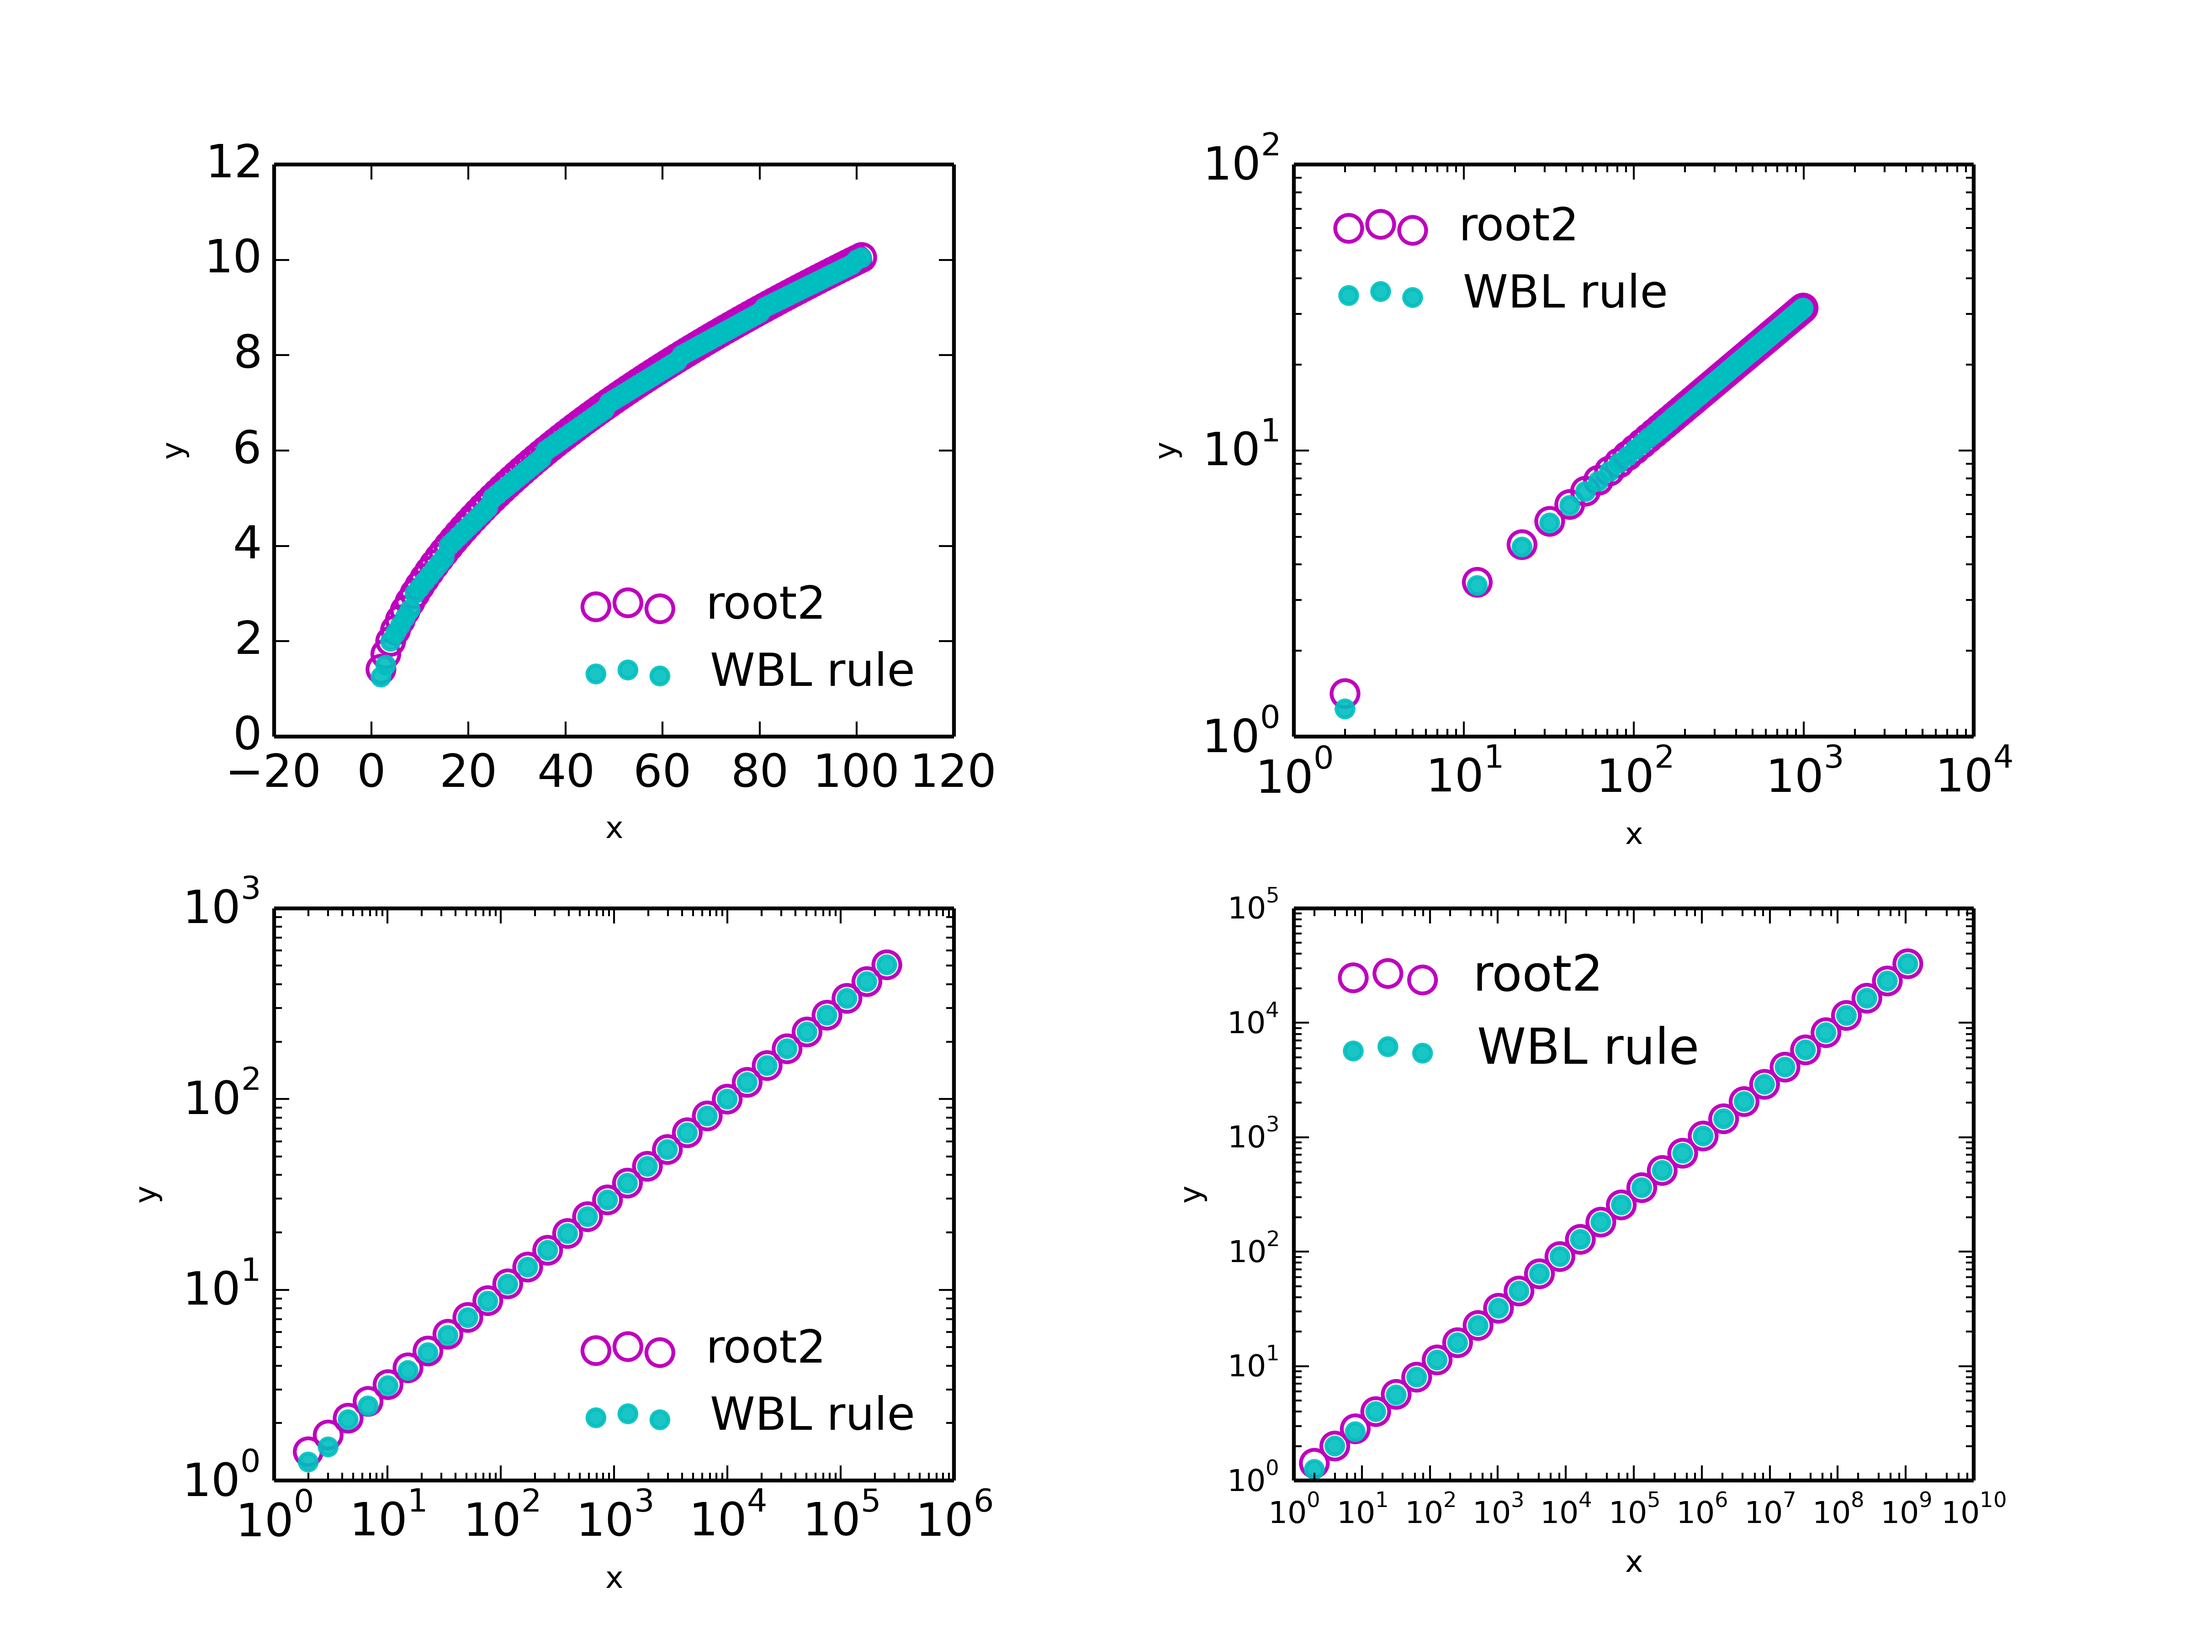
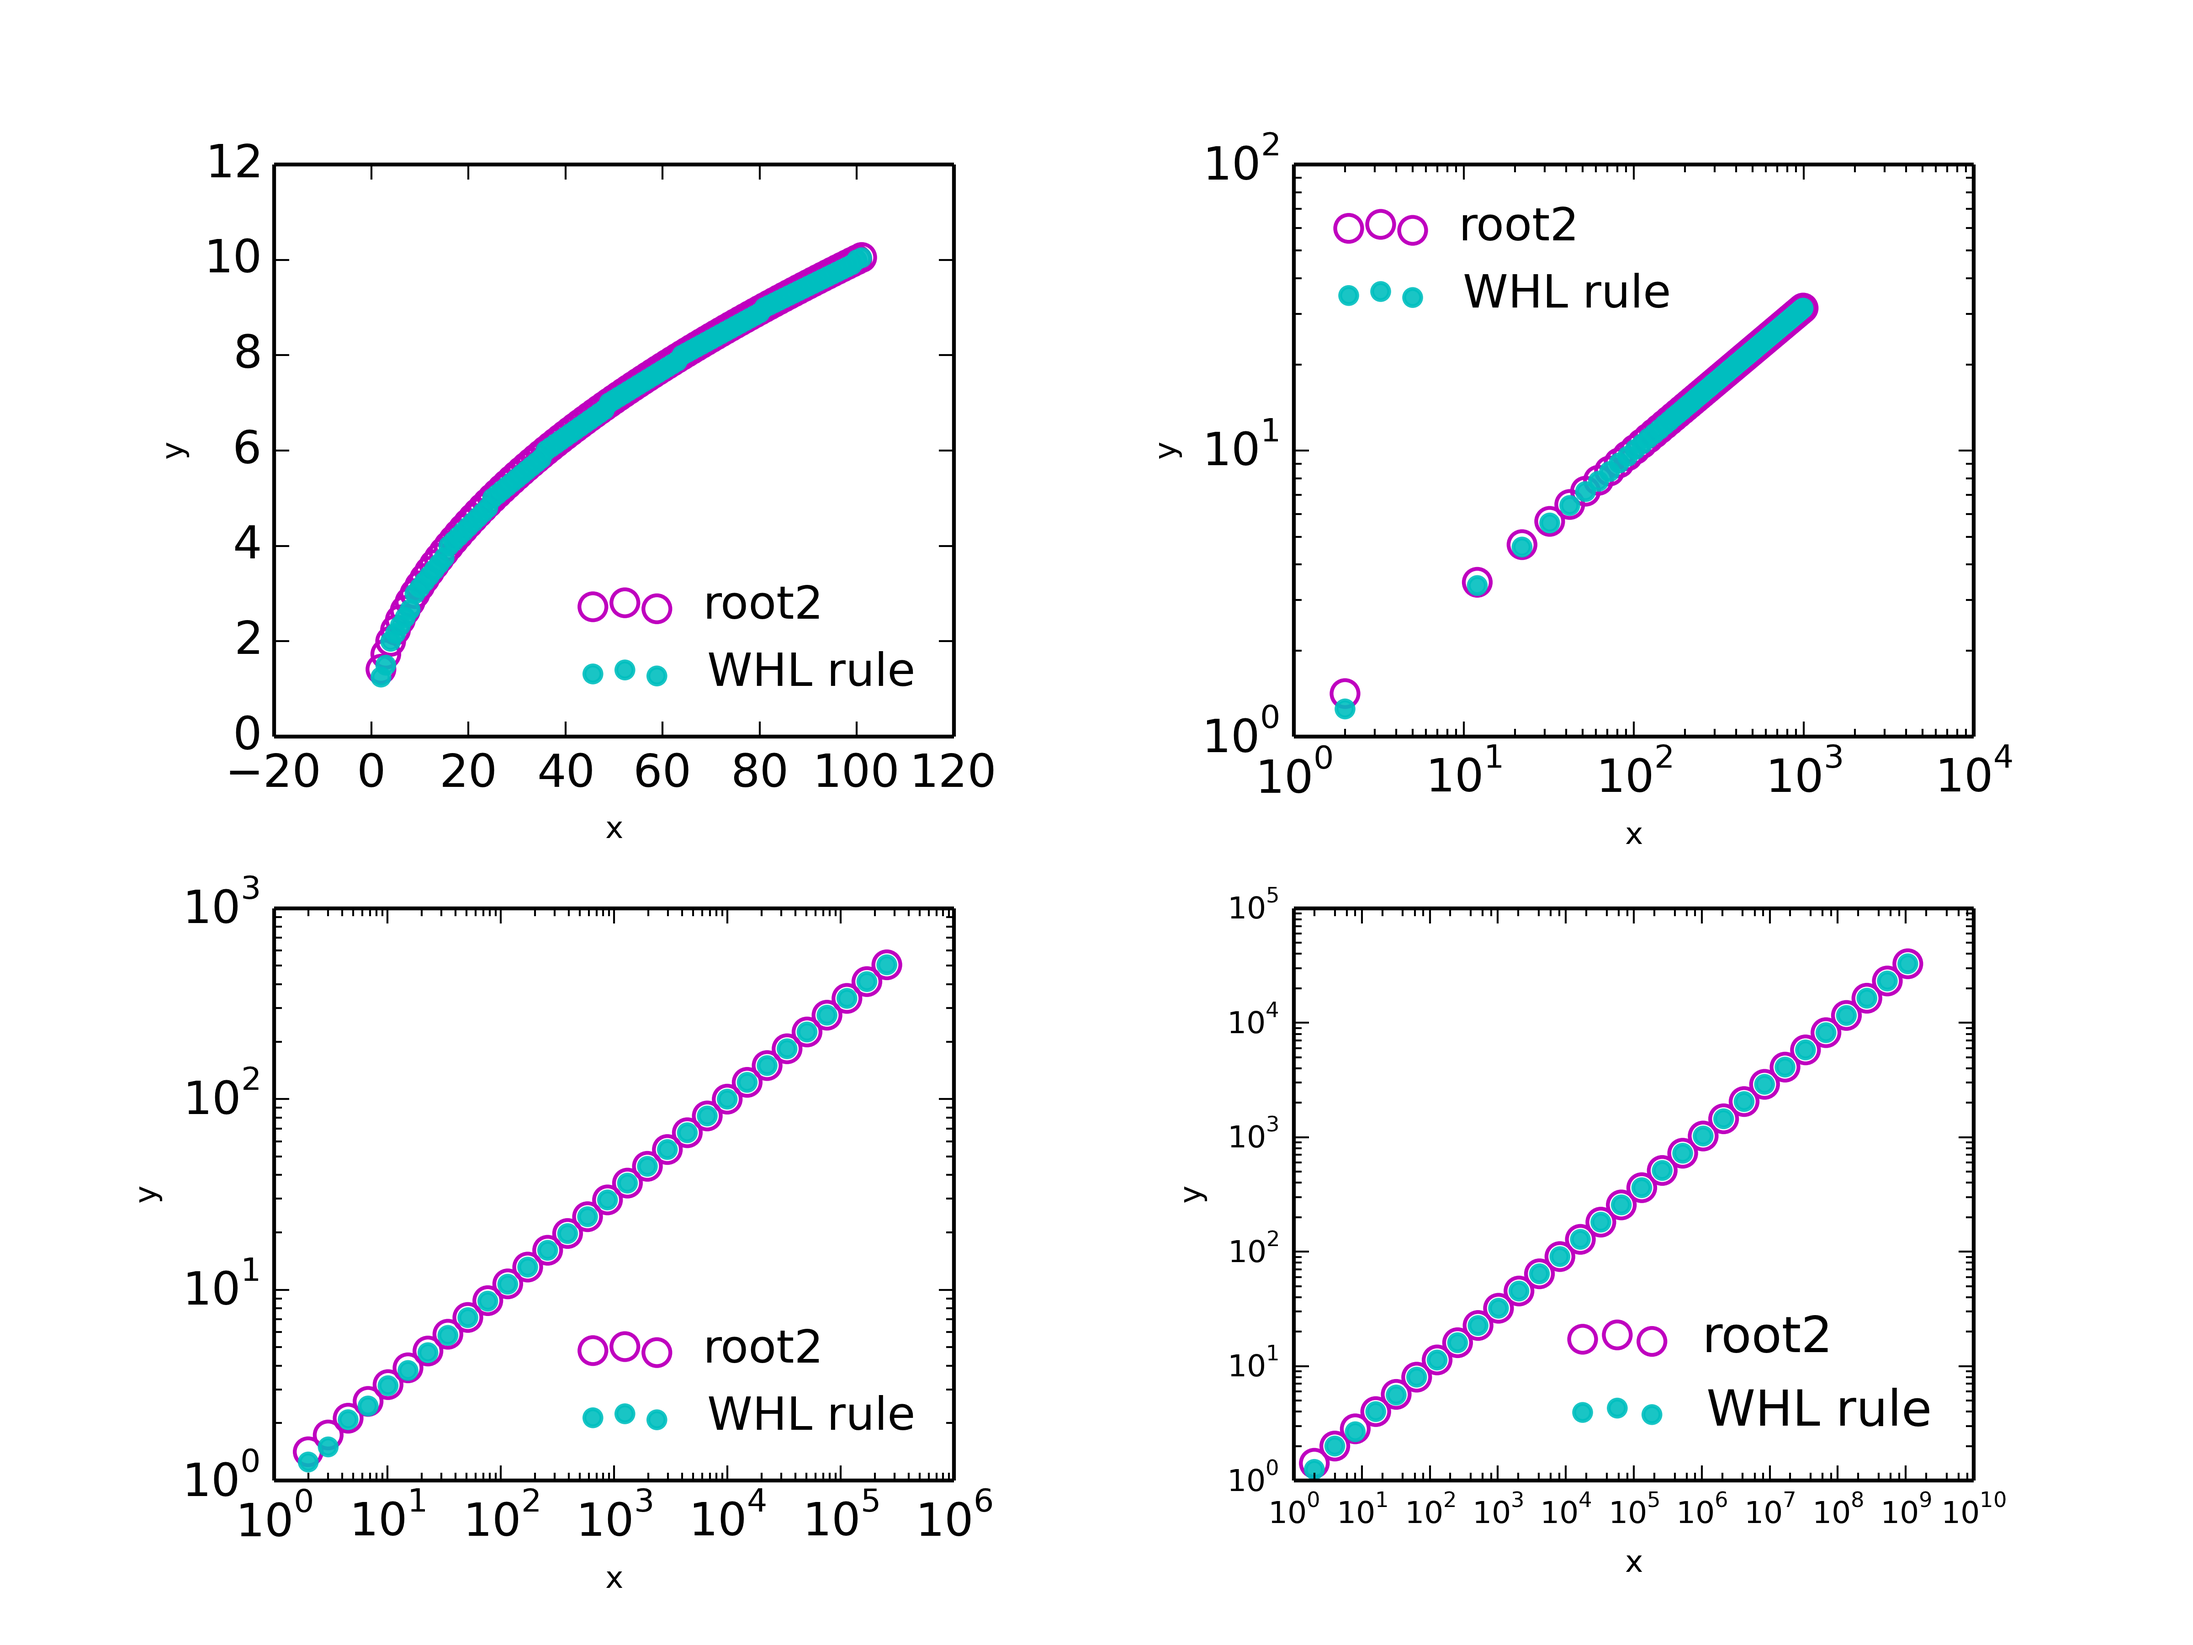
created functions.py to hold functions to be called from Roots.py, generated new figs, modified code to loop through a set of roots -KL

diff --git a/Roots/code/Roots.py b/Roots/code/Roots.py
@@ -4,168 +4,124 @@ import os
 import matplotlib.pyplot as plt
 import scipy
 from scipy import special
-import numpy as np
 
 mydir = os.path.expanduser("~/")
+sys.path.append(mydir + "/GitHub/PeasantMath/Roots/code")
+import functions as fxn
 
 
-def root_of_closest_perfect_square(n):
-    """ http://stackoverflow.com/questions/15390807/integer-square-root-in-python """
-    x = n
-    y = (x + 1) // 2
-    while y < x:
-        x = y
-        y = (x + n // x) // 2
-    return x
+ks = [2,3,4,5,6,7,8,9,10]
 
+for i, k in enumerate(ks):
 
-def closest_perfect_kth_root(x, k): # x is the number of interest, k is the power
+    fig = plt.figure()
+    ax = fig.add_subplot(2,2,1)
 
-    y = 2
-    while y <= x:
-        y = y**k
-        if y > x:
-            return y**(1/k) - 1
-        if y == x:
-            y**(1/k)
+    x = 2.0
+    xs = []
+    rts = []
+    WLs = []
 
-        y = y**(1/k)
-        y += 1
+    for j in range(100):
 
+        xs.append(x)
+        y = x**(1.0/k)
+        rts.append(y)
+        a = fxn.WHL_kth(x, k)
+        WLs.append(a)
+        x += 1
 
-
-
-def WHL_kth(x, k):
-
-    n = closest_perfect_kth_root(x, k) # x is the number of interest, k is the power
-    i = 1
-    a = 0
-    while i <= k:
-        b = scipy.special.binom(k, 1)
-        a += (b*(n**(k-i)))
-        i += 1
-
-    a = (x - n**k)/a
-    a += n
-
-    return float(a)
+    plt.scatter(xs, rts, s=50, color='m', facecolors='none', label='root'+str(int(k)))
+    plt.scatter(xs, WLs, color='c', alpha=0.9, label='WHL rule')
+    #plt.yscale('log')
+    #plt.xscale('log')
+    plt.xlabel('x', fontsize=8)
+    plt.ylabel('y', fontsize=8)
+    leg = plt.legend(loc=4,prop={'size':12})
+    leg.draw_frame(False)
+    #plt.text(-50, 14, "How well does the WHL Rule approximate square roots?", fontsize=16)
 
 
 
+    ax = fig.add_subplot(2,2,2)
+    x = 2.0
+    xs = []
+    rts = []
+    WLs = []
 
-fig = plt.figure()
-ax = fig.add_subplot(2,2,1)
+    for j in range(100):
 
-x = 2
-k = 5
-xs = []
-rts = []
-WLs = []
+        xs.append(x)
+        y = x**(1/k)
+        rts.append(y)
+        a = fxn.WHL_kth(x, k)
+        WLs.append(a)
+        x += 10
 
-for i in range(100):
-
-    xs.append(x)
-    y = x**(1/k)
-    rts.append(y)
-    a = WHL_kth(x, k)
-    WLs.append(a)
-    x += 1
-
-plt.scatter(xs, rts, s=50, color='m', facecolors='none', label='root'+str(int(k)))
-plt.scatter(xs, WLs, color='c', alpha=0.9, label='WBL rule')
-#plt.yscale('log')
-#plt.xscale('log')
-plt.xlabel('x', fontsize=8)
-plt.ylabel('y', fontsize=8)
-leg = plt.legend(loc=4,prop={'size':12})
-leg.draw_frame(False)
-#plt.text(-50, 14, "How well does the Webster-Locey Rule approximate square roots?", fontsize=16)
+    plt.scatter(xs, rts, s=50, color='m', facecolors='none', label='root'+str(int(k)))
+    plt.scatter(xs, WLs, color='c', alpha=0.9, label='WHL rule')
+    plt.yscale('log')
+    plt.xscale('log')
+    plt.xlabel('x', fontsize=8)
+    plt.ylabel('y', fontsize=8)
+    leg = plt.legend(loc=2,prop={'size':12})
+    leg.draw_frame(False)
 
 
 
+    ax = fig.add_subplot(2,2,3)
+    x = 2.0
+    xs = []
+    rts = []
+    WLs = []
 
-ax = fig.add_subplot(2,2,2)
-x = 2
-xs = []
-sqrts = []
-WLs = []
+    for j in range(30):
 
-for i in range(100):
-
-    xs.append(x)
-    y = x**(1/k)
-    sqrts.append(y)
-    a = WHL_kth(x, k)
-    WLs.append(a)
-
-    x += 10
+        xs.append(x)
+        y = x**(1/k)
+        rts.append(y)
+        a = fxn.WHL_kth(x, k)
+        WLs.append(a)
+        x = x*1.5
 
 
-plt.scatter(xs, sqrts, s=50, color='m', facecolors='none', label='root'+str(int(k)))
-plt.scatter(xs, WLs, color='c', alpha=0.9, label='WBL rule')
-plt.yscale('log')
-plt.xscale('log')
-plt.xlabel('x', fontsize=8)
-plt.ylabel('y', fontsize=8)
-leg = plt.legend(loc=2,prop={'size':12})
-leg.draw_frame(False)
+    plt.scatter(xs, rts, s=50, color='m', facecolors='none', label='root'+str(int(k)))
+    plt.scatter(xs, WLs, color='c', alpha=0.9, label='WHL rule')
+    plt.yscale('log')
+    plt.xscale('log')
+    plt.xlabel('x', fontsize=8)
+    plt.ylabel('y', fontsize=8)
+    leg = plt.legend(loc=4,prop={'size':12})
+    leg.draw_frame(False)
 
 
 
+    ax = fig.add_subplot(2,2,4)
+    x = 2.0
+    xs = []
+    rts = []
+    WLs = []
 
-ax = fig.add_subplot(2,2,3)
-x = 2.0
-xs = []
-sqrts = []
-WLs = []
+    for j in range(30):
 
-for i in range(30):
+        xs.append(x)
+        y = x**(1/k)
+        rts.append(y)
+        a = fxn.WHL_kth(x, k)
+        WLs.append(a)
+        x = x*2
 
-    xs.append(x)
-    y = x**(1/k)
-    sqrts.append(y)
-    a = WHL_kth(x, k)
-    WLs.append(a)
+    plt.scatter(xs, rts, s=50, color='m', facecolors='none', label='root'+str(int(k)))
+    plt.scatter(xs, WLs, color='c', alpha=0.9, label='WHL rule')
+    plt.yscale('log')
+    plt.xscale('log')
+    plt.xlabel('x', fontsize=8)
+    plt.ylabel('y', fontsize=8)
+    leg = plt.legend(loc=4,prop={'size':13})
+    leg.draw_frame(False)
 
-    x = x*1.5
-
-
-plt.scatter(xs, sqrts, s=50, color='m', facecolors='none', label='root'+str(int(k)))
-plt.scatter(xs, WLs, color='c', alpha=0.9, label='WBL rule')
-plt.yscale('log')
-plt.xscale('log')
-plt.xlabel('x', fontsize=8)
-plt.ylabel('y', fontsize=8)
-leg = plt.legend(loc=4,prop={'size':12})
-leg.draw_frame(False)
-
-
-ax = fig.add_subplot(2,2,4)
-x = 2.0
-xs = []
-sqrts = []
-WLs = []
-
-for i in range(30):
-
-    xs.append(x)
-    y = x**(1/k)
-    sqrts.append(y)
-    a = WHL_kth(x, k)
-    WLs.append(a)
-
-    x = x*2
-
-plt.scatter(xs, sqrts, s=50, color='m', facecolors='none', label='root'+str(int(k)))
-plt.scatter(xs, WLs, color='c', alpha=0.9, label='WBL rule')
-plt.yscale('log')
-plt.xscale('log')
-plt.xlabel('x', fontsize=8)
-plt.ylabel('y', fontsize=8)
-leg = plt.legend(loc=2,prop={'size':13})
-leg.draw_frame(False)
-
-plt.tick_params(axis='both', which='major', labelsize=8)
-plt.subplots_adjust(wspace=0.5, hspace=0.3)
-plt.savefig(mydir+'/GitHub/PeasantMath/SquareRoots/figs/WHL_root'+str(int(k))+'.png', dpi=600)#, bbox_inches = 'tight')#, pad_inches=0)
-#plt.show()
+    plt.tick_params(axis='both', which='major', labelsize=8)
+    plt.subplots_adjust(wspace=0.5, hspace=0.3)
+    plt.savefig(mydir+'/GitHub/PeasantMath/Roots/figs/WHL_root'+str(int(k))+'.png', dpi=600)#, bbox_inches = 'tight')#, pad_inches=0)
+    print 'finished root',k
+    #plt.show()

diff --git a/Roots/code/functions.py b/Roots/code/functions.py
@@ -1,0 +1,65 @@
+from __future__ import division
+#import sys
+import os
+import matplotlib.pyplot as plt
+import scipy
+from scipy import special
+
+mydir = os.path.expanduser("~/")
+
+
+def root_of_closest_perfect_square(n):
+    """ http://stackoverflow.com/questions/15390807/integer-square-root-in-python """
+
+    x = n
+    y = (x + 1) // 2
+    while y < x:
+        x = y
+        y = (x + n // x) // 2
+    return x
+
+
+
+def iroot(k, n):
+    """ http://stackoverflow.com/questions/15978781/how-to-find-integer-nth-roots"""
+
+    u, s = n, n+1
+    while u < s:
+        s = u
+        t = (k-1) * s + n // pow(s, k-1)
+        u = t // k
+    return s
+
+
+def closest_perfect_kth_root(x, k): # x is the number of interest, k is the power
+    """ naive method by KJL """
+
+    y = 2
+    while y <= x:
+        y = y**k
+        if y > x:
+            return y**(1/k) - 1
+        if y == x:
+            y**(1/k)
+
+        y = y**(1/k)
+        y += 1
+
+
+
+def WHL_kth(x, k):
+    """ main computing function derived by Kevin Webster, Blane Hollingsworth,
+    and Ken Locey """
+
+    n = closest_perfect_kth_root(x, k) # x is the number of interest, k is the power
+    i = 1
+    a = 0
+    while i <= k:
+        b = scipy.special.binom(k, 1)
+        a += (b*(n**(k-i)))
+        i += 1
+
+    a = (x - n**k)/a
+    a += n
+
+    return float(a)
